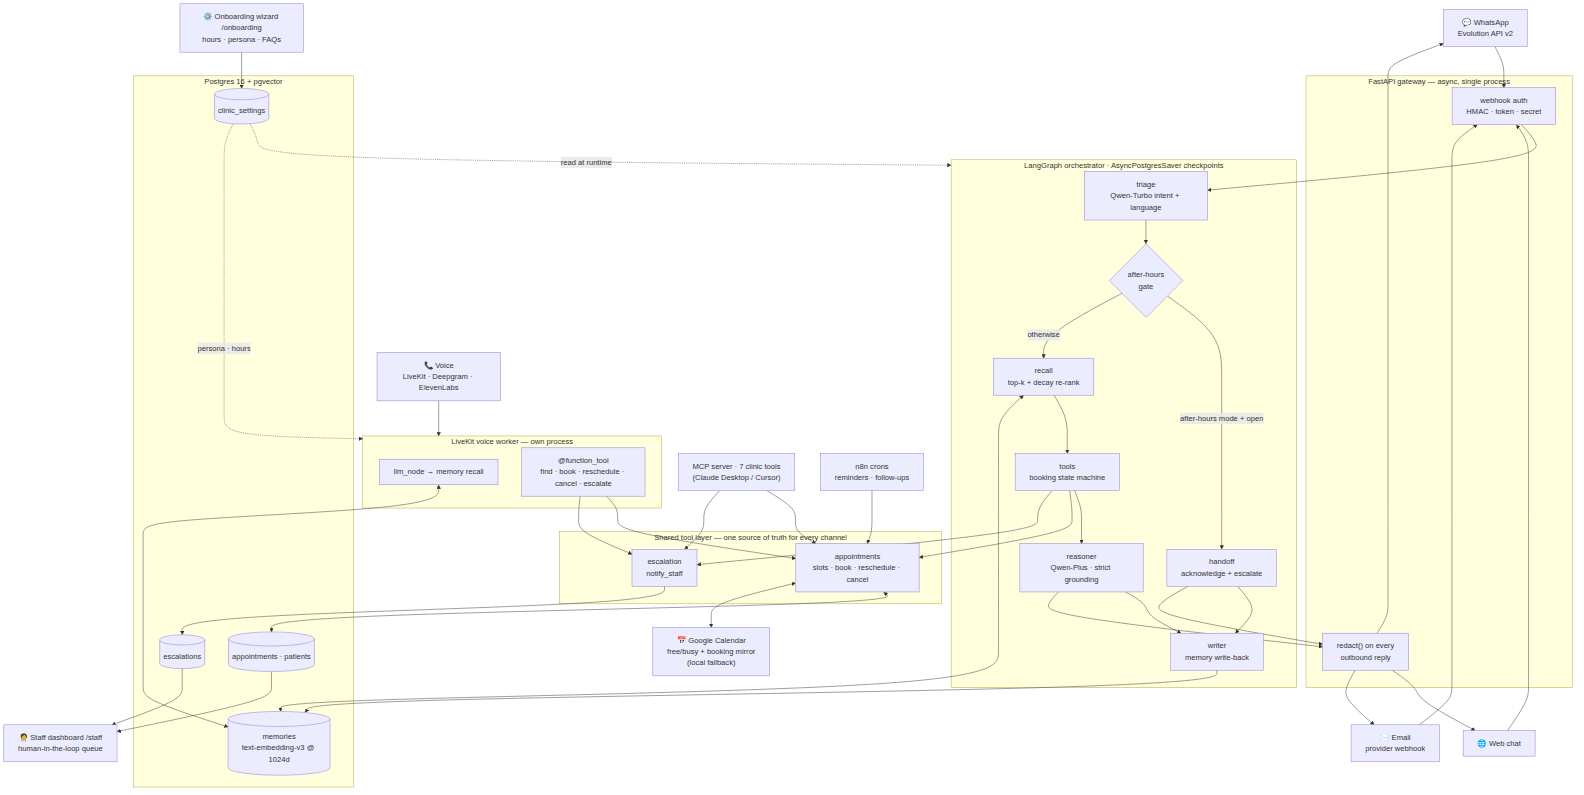
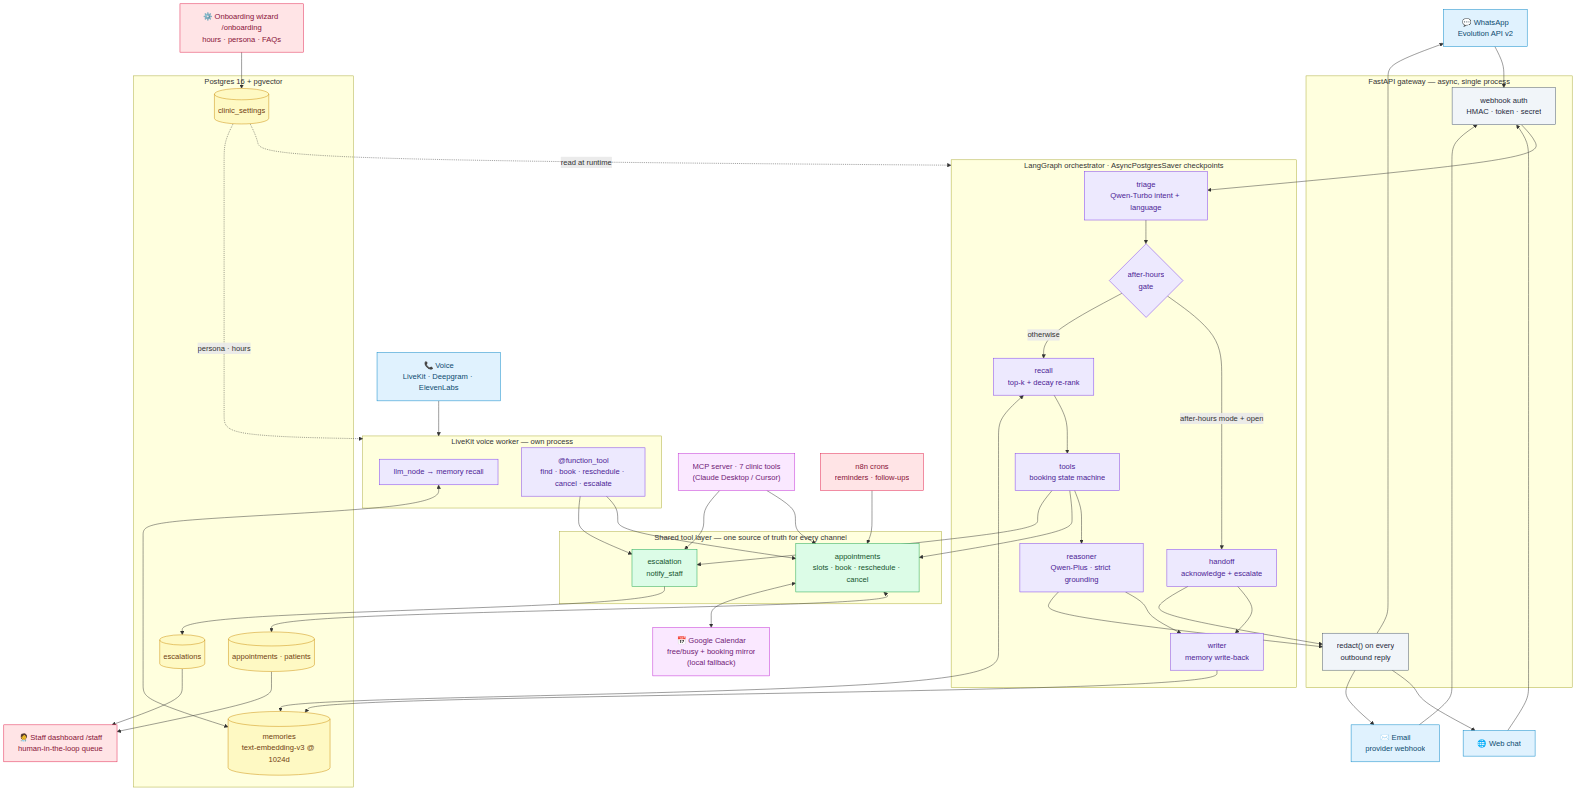
Color-code the architecture diagram by layer
Add Mermaid classDef styling so the diagram reads at a glance — channels,
gateway, agent brain, shared tool layer, data, ops surfaces, and external
integrations each get a colour, with a legend in the README. Re-rendered
docs/architecture.png; validated with mermaid-cli.

https://claude.ai/code/session_01WMhdcasFLuyCec9vfBZ1QV

diff --git a/README.md b/README.md
@@ -102,9 +102,27 @@ flowchart TB
     CFG -.->|read at runtime| LG
     CFG -.->|persona · hours| VOICEW
     N8N --> APPTS
+
+    classDef channel fill:#e0f2fe,stroke:#0284c7,color:#0c4a6e;
+    classDef gateway fill:#f1f5f9,stroke:#475569,color:#1e293b;
+    classDef brain fill:#ede9fe,stroke:#7c3aed,color:#4c1d95;
+    classDef tools fill:#dcfce7,stroke:#16a34a,color:#14532d;
+    classDef data fill:#fef9c3,stroke:#ca8a04,color:#713f12;
+    classDef ops fill:#ffe4e6,stroke:#e11d48,color:#881337;
+    classDef ext fill:#fae8ff,stroke:#c026d3,color:#701a75;
+
+    class VOICE,WA,WEB,EMAIL channel;
+    class AUTH,REDACT gateway;
+    class TRIAGE,GATE,HANDOFF,RECALL,TOOLS,REASONER,WRITER,LLMNODE,FTOOLS brain;
+    class APPTS,ESC tools;
+    class MEM,APPT,ESCT,CFG data;
+    class STAFF,ONB,N8N ops;
+    class MCP,CAL ext;
 ```
 
 > Static render for slides/print: [`docs/architecture.png`](docs/architecture.png).
+>
+> **Legend:** 🟦 channels · ⬜ gateway · 🟪 agent brain (text graph + voice worker) · 🟩 shared tool layer · 🟨 Postgres/pgvector · 🟥 ops surfaces (`/staff`, `/onboarding`, n8n) · 🟧 external (MCP, Google Calendar).
 
 The shape of the system is the headline: **four channels and an MCP server all funnel into one shared tool layer**, so booking / reschedule / cancel / escalation behave identically everywhere and write once to Postgres (the source of truth) while mirroring to Google Calendar. Decay-weighted pgvector memory feeds both the text graph and the voice worker; clinic config set in the onboarding wizard is read live by both.
 